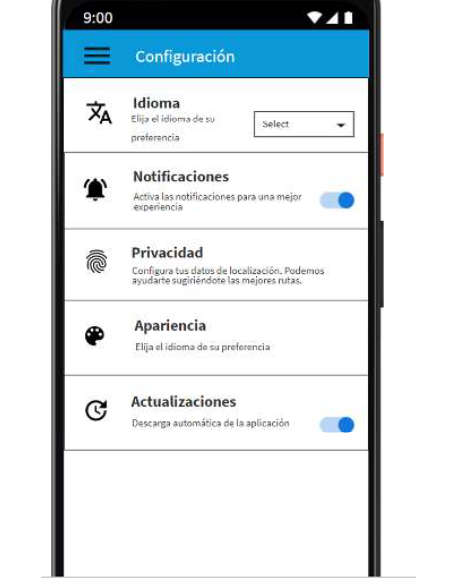
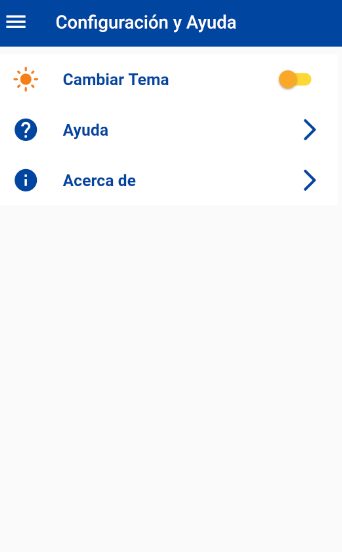
Agregando la ventana de configuracion junto a una paleta de colores para la aplicacion

diff --git a/lib/pages/lineasInfo/formLineas.dart b/lib/pages/lineasInfo/formLineas.dart
@@ -1,3 +1,5 @@
+import 'dart:ffi';
+
 import 'package:flutter/material.dart';
 import 'package:flutter_kaypi/provider/lineas_api.dart';
 import 'package:flutter_kaypi/pages/lineasInfo/linea_page.dart';
@@ -55,10 +57,7 @@ class _FormLineasState extends State<FormLineas> {
                       color:Colors.blue.shade900,
                     ),
                     hintText: "Busca tu linea de transporte",
-                    hintStyle: TextStyle(color: Colors.blue.shade900),
-                    border: InputBorder.none,
-                    focusedBorder: InputBorder.none,
-                    enabledBorder: InputBorder.none,
+                    hintStyle: TextStyle(color: Colors.blue.shade900,decoration: TextDecoration.none),
                     errorBorder: InputBorder.none,
                     disabledBorder: InputBorder.none,
                 ),
@@ -97,12 +96,7 @@ class _FormLineasState extends State<FormLineas> {
           ),
         ),
         body:  !isSearching
-        ? Column(
-           children: <Widget>[
-            SizedBox(height: 15),
-            _lista(context),
-           ],
-          )
+        ?  _lista(context)
         : Container(
         padding: EdgeInsets.all(10),
         child: filteredLines.length > 0
@@ -136,7 +130,9 @@ class _FormLineasState extends State<FormLineas> {
 
       ) 
       );
-
+  String dropdownvalue = 'Minibus';
+  var items =  ['Minibus','TaxiTrufi','Micro'];
+  List<Linea> listaFinal = [];
   //Widget de visualizacion de rutas en lista
   Widget _lista(context) => FutureBuilder<List<Linea>>(
         future: lineasApi.cargarData(),
@@ -157,12 +153,91 @@ class _FormLineasState extends State<FormLineas> {
               List<Linea> lineasMiniBus = getLinesFromCat("Minibus", lineas!);
               List<Linea> lineasTaxTruf = getLinesFromCat("TaxiTrufi", lineas);
               List<Linea> lineasMicro = getLinesFromCat("Micro", lineas);
-              return SingleChildScrollView(
+               
+              return ListView(  
+                children: [
+                    ListTile(
+              tileColor: Colors.white,
+              title: Text(
+                "Categorias",
+                style: TextStyle(
+                    fontSize: 18.0,
+                    fontWeight: FontWeight.bold,
+                    color: Colors.blue.shade900),
+              ),
+              
+              trailing:DropdownButton(
+                value: dropdownvalue,
+                style: const TextStyle(color: Colors.indigo,fontWeight: FontWeight.bold),
+                  icon: Icon(Icons.keyboard_arrow_down, color: Colors.blue.shade900,),
+                  items:items.map((String items) {
+                       return DropdownMenuItem(
+                           value: items,
+                           child: Text(items)
+                       );
+                  }
+                  ).toList(),
+                onChanged: (String? newValue) {
+                 setState(() {
+              
+                 dropdownvalue = newValue!;
+                 listaFinal= getLinesFromCat(dropdownvalue.toString(), lineas);
+                 });
+                },
+              ),
+           ),
+           _buildLineas(listaFinal, context, _isMinBusVisible),
+              
+                ]);
+               /*SingleChildScrollView(
                 physics: BouncingScrollPhysics(),
                 child: Column(
                   children: [
                     ListTile(),
+                   
                     ListTile(
+              tileColor: Colors.white,
+              title: Text(
+                "Categorias",
+                style: TextStyle(
+                    fontSize: 18.0,
+                    fontWeight: FontWeight.bold,
+                    color: Colors.blue.shade900),
+              ),
+              
+              trailing:DropdownButton(
+                value: dropdownvalue,
+                style: const TextStyle(color: Colors.indigo,fontWeight: FontWeight.bold),
+                  icon: Icon(Icons.keyboard_arrow_down, color: Colors.blue.shade900,),
+                  items:items.map((String items) {
+                       return DropdownMenuItem(
+                           value: items,
+                           child: Text(items)
+                       );
+                  }
+                  ).toList(),
+                onChanged: (String? newValue) {
+                 setState(() {
+              
+                 dropdownvalue = newValue!;
+                 listaFinal= getLinesFromCat(dropdownvalue.toString(), lineas);
+                 });
+                },
+              ),
+           ),
+           Container(
+             padding: EdgeInsets.all(10),
+             child: _buildLineas(listaFinal, context, _isMinBusVisible),
+           )
+
+          
+                   /* if (dropdownvalue=="Minibus")
+                      _buildLineas(lineasMiniBus, context, _isMinBusVisible),
+                    if (dropdownvalue=="TaxiTrufi")
+                      _buildLineas(lineasTaxTruf, context, _isMinBusVisible),
+                    if (dropdownvalue=="Micro")
+                      _buildLineas(lineasMicro, context, _isMinBusVisible),*/
+                   /* ListTile(
                       onTap: () =>
                           setState(() => _isMinBusVisible = !_isMinBusVisible),
                       leading: CircleAvatar(
@@ -189,6 +264,7 @@ class _FormLineasState extends State<FormLineas> {
                               color:Colors.blue.shade900,
                             ),
                     ),
+                    
                     _buildLineas(lineasMiniBus, context, _isMinBusVisible),
                     ListTile(
                       onTap: () =>
@@ -245,10 +321,10 @@ class _FormLineasState extends State<FormLineas> {
                               color: Colors.blue.shade900,
                             ),
                     ),
-                    _buildLineas(lineasMicro, context, _isMicroVisible)
+                    _buildLineas(lineasMicro, context, _isMicroVisible)*/
                   ],
                 ),
-              );
+              );*/
           }
         },
       );
@@ -266,11 +342,9 @@ class _FormLineasState extends State<FormLineas> {
 
   //widget de lista de lineas
   Widget _buildLineas(List<Linea> lineas, context, _isVisible) {
-    return Visibility(
-        visible: _isVisible,
-        child: ListView.builder(
+    return ListView.builder(
+      physics: BouncingScrollPhysics(),
           padding: EdgeInsets.zero,
-          physics: const NeverScrollableScrollPhysics(),
           shrinkWrap: true,
           itemCount: lineas.length,
           itemBuilder: (context, index) {
@@ -301,6 +375,6 @@ class _FormLineasState extends State<FormLineas> {
               ),
             );
           },
-        ));
+        );
   }
 }

diff --git a/lib/pages/mapaRuta/Rutas.dart b/lib/pages/mapaRuta/Rutas.dart
@@ -76,7 +76,7 @@ class _RutasState extends State<Rutas> {
               Radius.circular(10.0),
             ),
             borderSide: BorderSide(
-              color: Colors.blue.shade300,
+              color: Colors.blue.shade500,
               width: 2,
             ),
           ),
@@ -325,7 +325,7 @@ class _RutasState extends State<Rutas> {
             onTap: () => ZoomDrawer.of(context)!.toggle(),
             child: Icon(
               Icons.menu,
-              color: Colors.grey[600],
+              color: Colors.blue.shade900,
               size: 28,
             ),
           ),
@@ -355,13 +355,13 @@ class _RutasState extends State<Rutas> {
                   children: <Widget>[
                     ClipOval(
                       child: Material(
-                        color: Colors.blue.shade100, // button color
+                        color: Colors.blue.shade700, // button color
                         child: InkWell(
                           splashColor: Colors.blue, // inkwell color
                           child: SizedBox(
                             width: 50,
                             height: 50,
-                            child: Icon(Icons.add),
+                            child: Icon(Icons.add, color: Colors.white),
                           ),
                           onTap: () {
                             mapController.animateCamera(
@@ -374,13 +374,13 @@ class _RutasState extends State<Rutas> {
                     SizedBox(height: 20),
                     ClipOval(
                       child: Material(
-                        color: Colors.blue.shade100, // button color
+                        color: Colors.blue.shade700, // button color
                         child: InkWell(
                           splashColor: Colors.blue, // inkwell color
                           child: SizedBox(
                             width: 50,
                             height: 50,
-                            child: Icon(Icons.remove),
+                            child: Icon(Icons.remove, color: Colors.white),
                           ),
                           onTap: () {
                             mapController.animateCamera(
@@ -510,7 +510,7 @@ class _RutasState extends State<Rutas> {
                               ),
                             ),
                             style: ElevatedButton.styleFrom(
-                              primary: Colors.red,
+                              primary: Colors.blue.shade900,
                               shape: RoundedRectangleBorder(
                                 borderRadius: BorderRadius.circular(20.0),
                               ),
@@ -531,13 +531,13 @@ class _RutasState extends State<Rutas> {
                   padding: const EdgeInsets.only(right: 10.0, bottom: 10.0),
                   child: ClipOval(
                     child: Material(
-                      color: Colors.orange.shade100, // button color
+                      color: Colors.blue.shade900, // button color
                       child: InkWell(
-                        splashColor: Colors.orange, // inkwell color
+                        splashColor: Colors.blue, // inkwell color
                         child: SizedBox(
                           width: 56,
                           height: 56,
-                          child: Icon(Icons.my_location),
+                          child: Icon(Icons.my_location,color: Colors.white),
                         ),
                         onTap: () {
                           mapController.animateCamera(

diff --git a/lib/pages/ayuda/ayudaKaypi.dart b/lib/pages/ayuda/ayudaKaypi.dart
@@ -65,33 +65,33 @@ class _AyudaKaypiState extends State<AyudaKaypi> {
         ],
         [
           ///hace llamdo a las imagenes a usar
-          "assets/img/ayudaImg/lineas.jpeg"
+          "assets/img/ayudaImg/lineas.png"
         ]));
     elementos.add(new CardItem(
 
         ///intancia los atributos
         "Puntos Estrategicos",
-        "Visualiza información sobre un punto estrategico especifico y sus posibles rutas.",
+        "Visualiza información sobre un punto estrategico especifico y sus posibles rutas y su respectiva ubicación.",
         "assets/img/ayudaImg/puntosestayuda.png",
         [
           "Elegido un punto estratégico es posible  determinar las líneas que pasan por dicho punto así como trazar una ruta desde su ubicación actual. La aplicación le permite crear sus propios puntos estratégicos."
         ],
         [
           ///hace llamdo a las imagenes a usar
-          "assets/img/ayudaImg/puntosestrategicos1.PNG"
+          "assets/img/ayudaImg/puntosestrategicos1.png"
         ]));
     elementos.add(new CardItem(
 
         ///intancia los atributos
         "Configuración",
-        "Modifica el aspecto de la aplicación para una mejor experiencia.",
+        "Cambia el tema de la aplicación, busca ayuda para las funciones de la aplicacion",
         "assets/img/ayudaImg/configuracionayuda.png",
         [
-          "Modifcar al idioma de su preferencia. \nActivar notificaciones. \nModificar privaciondad y terminos y condiciones. \nCambiar la apariencia. \nActivar o desactivar acualizaciones automaticas ."
+          "Modifcar al tema de su preferencia. \nVer la guia de la aplicación. \nVer informacion relacionada con el desarrollo de la aplicación."
         ],
         [
           ///hace llamdo a las imagenes a usar
-          "assets/img/ayudaImg/configuracion.PNG"
+          "assets/img/ayudaImg/configuracion.png"
         ]));
   }
 

diff --git a/lib/pages/puntosEstrategicos/formpuntos.dart b/lib/pages/puntosEstrategicos/formpuntos.dart
@@ -55,9 +55,17 @@ class _FormPuntosState extends State<FormPuntos> {
                       Icons.search,
                       color: Colors.white,
                     ),
+                    hoverColor: Colors.blueAccent.shade400,
                     hintText: "Busca tu lugar de preferencia",
-                    hintStyle: TextStyle(color: Colors.white60)
+                    hintStyle: TextStyle(color: Colors.white60, decoration:TextDecoration.none),
+                     enabledBorder: UnderlineInputBorder(      
+                      borderSide: BorderSide(color: Colors.white30),   
+                      ),  
+                    focusedBorder: UnderlineInputBorder(
+                      borderSide: BorderSide(color: Colors.white),
+                   ),
                 ),
+                
               ), 
       actions: <Widget>[
           isSearching

diff --git a/lib/main.dart b/lib/main.dart
@@ -2,6 +2,7 @@ import 'package:flutter/material.dart';
 //import 'package:flutter_kaypi/pages/Routes/routesPage.dart';
 import 'package:flutter_kaypi/zoom_drawer.dart';
 
+
 void main() {
   runApp(MyApp());
 }
@@ -11,12 +12,11 @@ class MyApp extends StatelessWidget {
   Widget build(BuildContext context) {
     return MaterialApp(
       title: 'Kaypi',
-      theme: ThemeData(
-        primarySwatch: Colors.indigo,
-        dividerColor: Colors.transparent,
-      ),
+      theme: ThemeData.light(),
       home: MenuZoom(),
       debugShowCheckedModeBanner: false,
     );
   }
 }
+
+

diff --git a/lib/pages/configuracion/configuracion.dart b/lib/pages/configuracion/configuracion.dart
@@ -120,3 +120,4 @@ class _ConfiguracionState extends State<Configuracion> {
         ));
   }
 }
+
